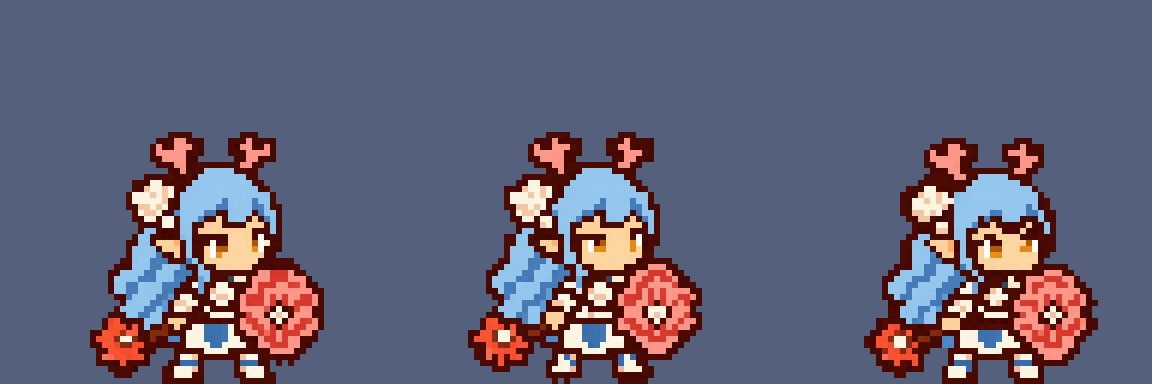
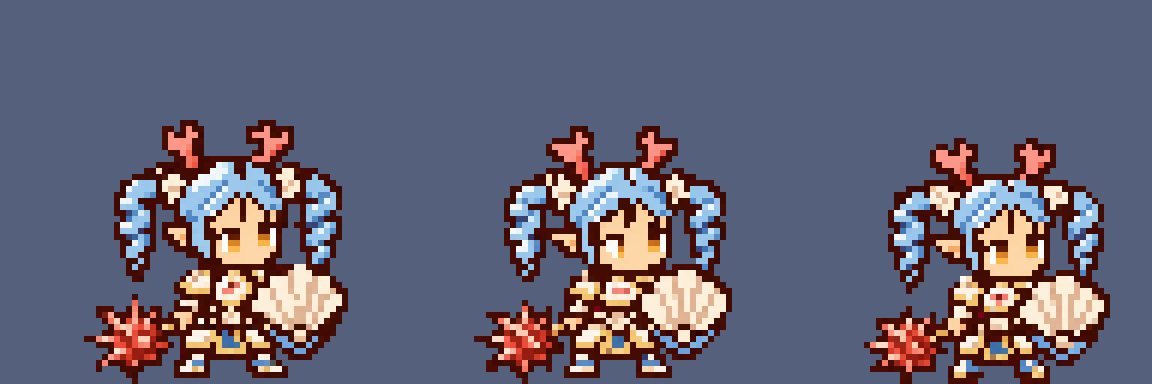
코라 떨어지는 양갈래·갑옷 장식·가시 철퇴·조개 방패 시안

Changed region(s): [[0.0625, 0.3125, 0.3125, 1.0], [0.4062, 0.3125, 0.6562, 1.0], [0.75, 0.3438, 0.9688, 1.0]]

diff --git a/개발일지/2026-11-28/이미지.md b/개발일지/2026-11-28/이미지.md
@@ -49,3 +49,9 @@
 - 의도: "코라 무기랑 방어구 이상함 명암 넣어. 코라 앞머리 이상하고. 우측머리 이상함. 커리 전체적인 머리 느낌을회오리로교체해봐." (머리 참고 사진 첨부. 실존 인물 사진이라 코덱스에는 올리지 않고 머리 모양만 글로 전함)
 - 결과: 크기 39×41(블레이즈 38×44), 눈 3줄·왼쪽 1점 아래·턱선 블레이즈와 같음. 전장 배경 합성 확인, 게임에는 넣어 보지 않음. 사용자 확인 대기.
 - 그림: img/codex/redo3/final14.png
+
+## [디자인] 코라 떨어지는 양갈래·갑옷 장식·가시 철퇴·조개 방패
+- 한 것: 양갈래를 옆으로 나갔다가 아래로 떨어지는 회오리로, 갑옷에 금테·산호 문장·진주 장식, 철퇴를 긴 가시로, 방패는 처음 그림의 조개 모양으로(`img/codex/redo3/coral_new16.png`). 얼굴은 직전 확인본을 옮겨 넣음. 게임 그림은 안 바꿈.
+- 의도: "묶음머리가 내려가야돼" / "방어구에 치장좀더주고" / "철퇴인데 삐죽삐죽 느낌이 좀더" / "방패는 조개 그거 좋았어"
+- 결과: 눈·턱선 기준 확인, 외곽선 빈틈 0, 전장 배경 합성 확인. 게임에는 넣어 보지 않음. 사용자 확인 대기.
+- 그림: img/codex/redo3/final16.png
